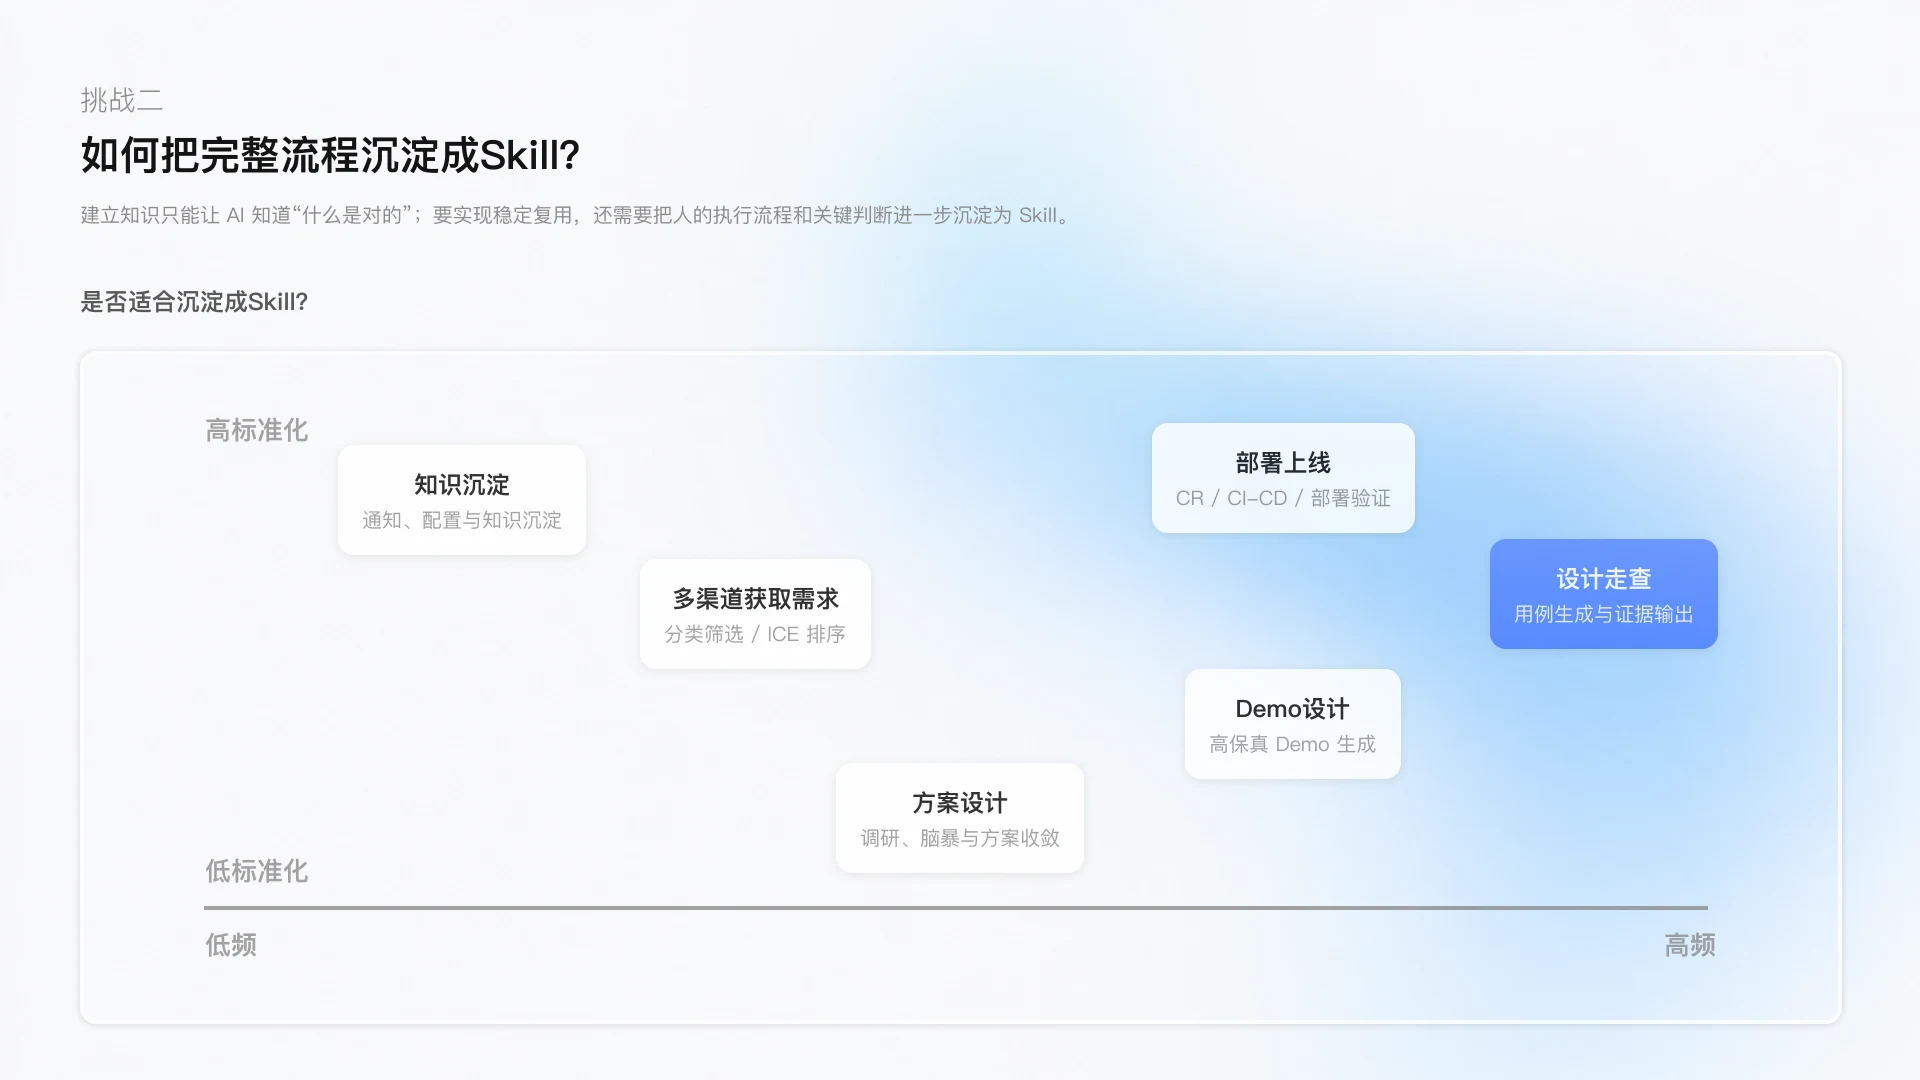
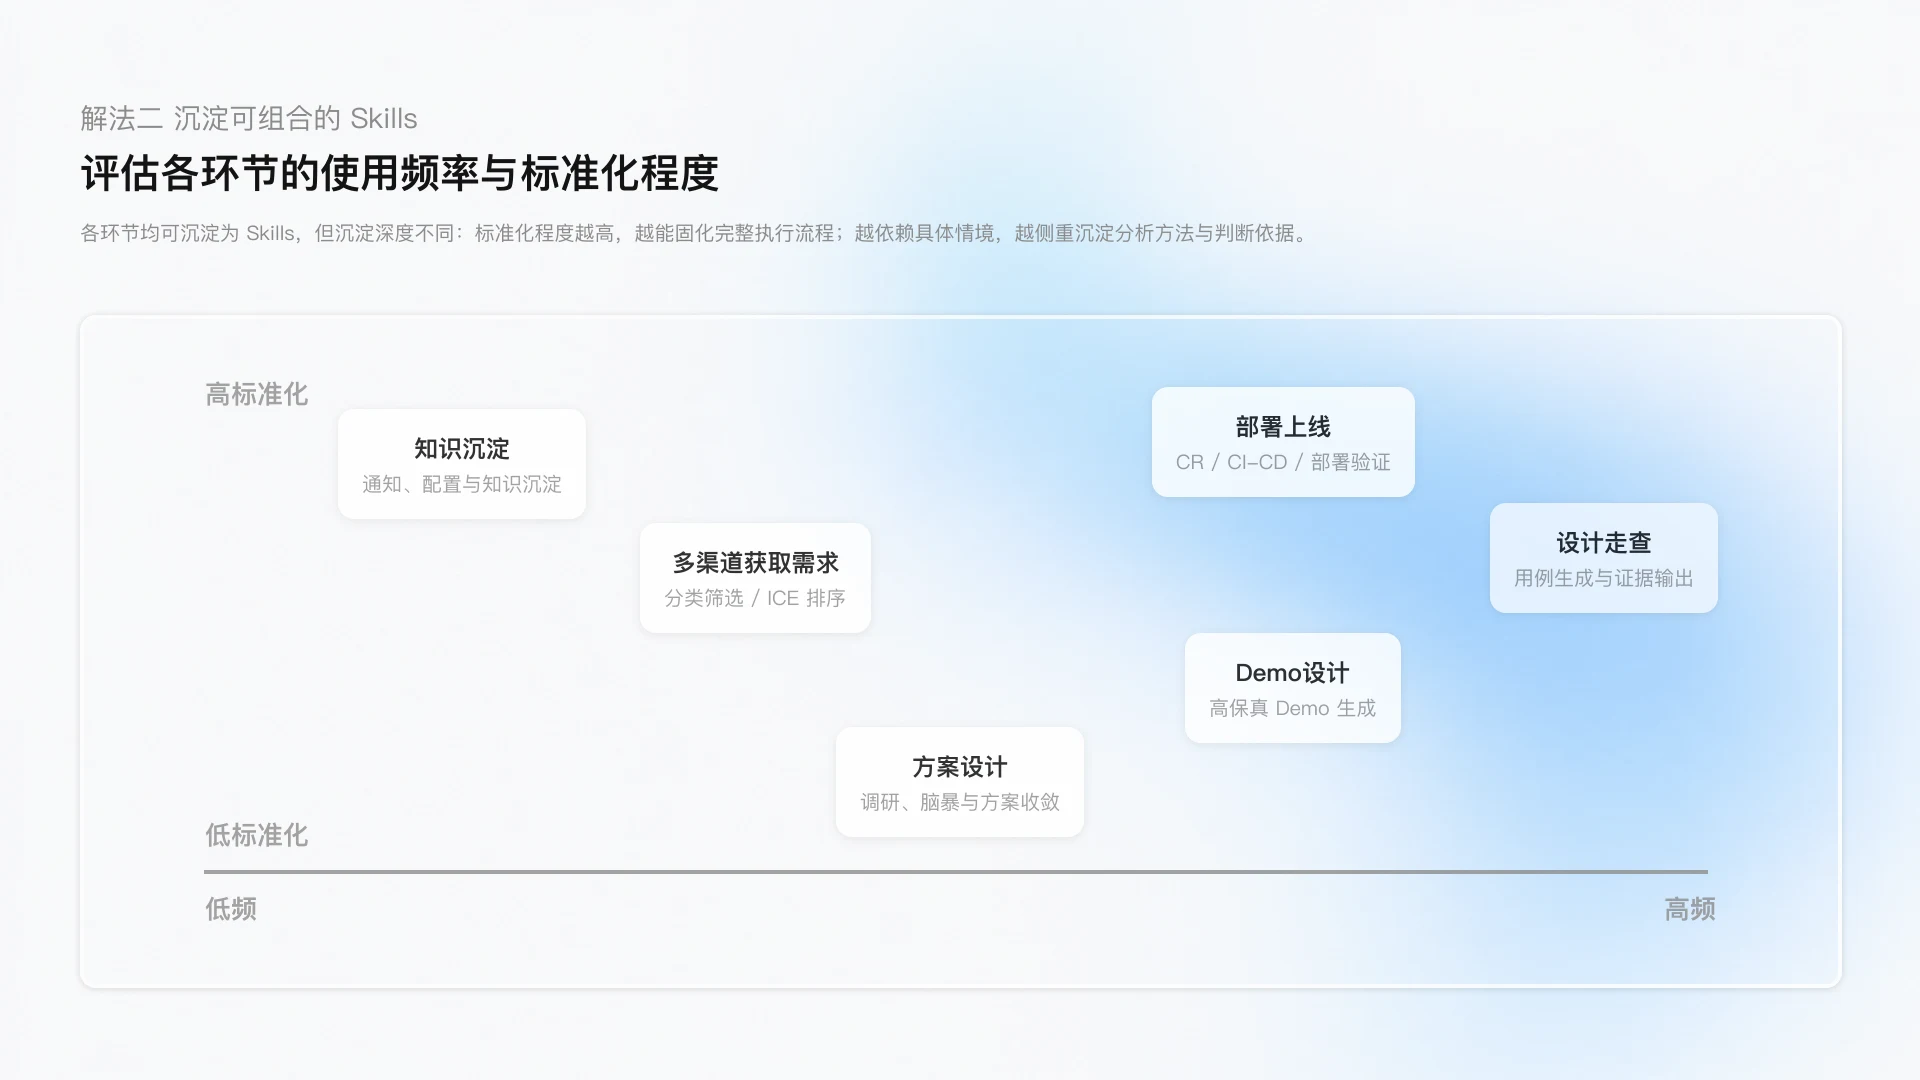
Update Dodo workflow outcome slide

diff --git a/pages/dodo.html b/pages/dodo.html
@@ -17,8 +17,8 @@
       .dodo-cover-demo iframe{display:block;width:100%;height:100%;border:0;border-radius:0;background:#fff;pointer-events:auto}
       .dodo-download-slide{position:relative;aspect-ratio:16/9;overflow:hidden}
       .dodo-download-link{position:absolute;z-index:2;display:block;border-radius:999px;background:transparent;cursor:pointer}
-      #dodo-slide-10 .dodo-download-link{left:86.04%;top:7.4%;width:10.52%;height:5.19%}
-      #dodo-slide-12 .dodo-download-link{left:85.36%;top:7.5%;width:10.42%;height:5%}
+      #dodo-slide-11 .dodo-download-link{left:86.04%;top:7.4%;width:10.52%;height:5.19%}
+      #dodo-slide-13 .dodo-download-link{left:85.36%;top:7.5%;width:10.42%;height:5%}
       .dodo-download-link:focus-visible{outline:3px solid #fff;outline-offset:4px}
       .dodo-process-panel{position:absolute;left:4.22%;top:30.28%;width:53.91%;height:69.72%;z-index:1;display:grid;place-items:center;overflow:hidden;border:0;border-radius:0;background:#151923;box-shadow:none}
       .dodo-process-media{display:block;max-width:100%;max-height:100%;width:auto;height:auto;object-fit:contain}
@@ -42,19 +42,20 @@
           </div>
         </div>
         <img id="dodo-slide-2" data-src="../assets/dodo/pages/page-02.webp?v=20261020-01" alt="Dodo 用户流程与从反馈到代码交付的工作流实践" width="1920" height="1080" loading="lazy" decoding="async" />
-        <img id="dodo-slide-3" data-src="../assets/dodo/pages/page-03.webp?v=20261020-01" alt="从用户反馈到代码交付的工作流阶段与适用需求" width="1920" height="1080" loading="lazy" decoding="async" />
-        <img id="dodo-slide-4" data-src="../assets/dodo/pages/page-03-stable-delivery.webp?v=20261020-01" alt="让工作流稳定交付：补齐产品规范并沉淀可组合的 Skills" width="1920" height="1080" loading="lazy" decoding="async" />
-        <img id="dodo-slide-5" data-src="../assets/dodo/pages/page-04.webp?v=20261020-02" alt="解法一补齐产品规范：需要明确体验原则与交互规范" width="1920" height="1080" loading="lazy" decoding="async" />
-        <img id="dodo-slide-6" data-src="../assets/dodo/pages/page-05.webp" alt="Agent 体验原则" width="1920" height="1080" loading="lazy" decoding="async" />
-        <img id="dodo-slide-7" data-src="../assets/dodo/pages/page-06.webp?v=20260922-1" alt="规范与元素层知识体系基座" width="1920" height="1080" loading="lazy" decoding="async" />
-        <img id="dodo-slide-8" data-src="../assets/dodo/pages/page-07.webp" alt="Agent 体验原则与产品规范应用结果" width="1920" height="1080" loading="lazy" decoding="async" />
-        <img id="dodo-slide-9" data-src="../assets/dodo/pages/page-08.webp?v=20260920-1" alt="如何把一次交付，变成可复制的能力" width="1920" height="1080" loading="lazy" decoding="async" />
-        <div id="dodo-slide-10" class="case-slide-frame dodo-download-slide" aria-label="AI 设计工作流与 Skills">
-          <img data-src="../assets/dodo/pages/page-09.webp?v=20260920-3" alt="AI 设计工作流与 Skills" width="1920" height="1080" loading="lazy" decoding="async" />
+        <img id="dodo-slide-3" data-src="../assets/dodo/pages/page-03.webp?v=20261020-02" alt="从用户反馈到代码交付，让设计师完成小需求" width="1920" height="1080" loading="lazy" decoding="async" />
+        <img id="dodo-slide-4" data-src="../assets/dodo/pages/page-04-outcomes-promotion.webp?v=20261021-02" alt="工作流成果与推广：加快体验迭代，推动团队使用" width="1920" height="1080" loading="lazy" decoding="async" />
+        <img id="dodo-slide-5" data-src="../assets/dodo/pages/page-03-stable-delivery.webp?v=20261020-01" alt="让工作流稳定交付：补齐产品规范并沉淀可组合的 Skills" width="1920" height="1080" loading="lazy" decoding="async" />
+        <img id="dodo-slide-6" data-src="../assets/dodo/pages/page-04.webp?v=20261020-02" alt="解法一补齐产品规范：需要明确体验原则与交互规范" width="1920" height="1080" loading="lazy" decoding="async" />
+        <img id="dodo-slide-7" data-src="../assets/dodo/pages/page-05.webp" alt="Agent 体验原则" width="1920" height="1080" loading="lazy" decoding="async" />
+        <img id="dodo-slide-8" data-src="../assets/dodo/pages/page-06.webp?v=20260922-1" alt="规范与元素层知识体系基座" width="1920" height="1080" loading="lazy" decoding="async" />
+        <img id="dodo-slide-9" data-src="../assets/dodo/pages/page-07.webp" alt="Agent 体验原则与产品规范应用结果" width="1920" height="1080" loading="lazy" decoding="async" />
+        <img id="dodo-slide-10" data-src="../assets/dodo/pages/page-08.webp?v=20261020-01" alt="评估各环节的使用频率与标准化程度，判断 Skills 的沉淀方式" width="1920" height="1080" loading="lazy" decoding="async" />
+        <div id="dodo-slide-11" class="case-slide-frame dodo-download-slide" aria-label="AI 设计工作流与 Skills">
+          <img data-src="../assets/dodo/pages/page-09.webp?v=20261020-01" alt="根据评估结果，明确各环节的 Skill 沉淀内容" width="1920" height="1080" loading="lazy" decoding="async" />
           <a class="dodo-download-link" href="../assets/skills/design-review-skills.zip" download="design-review-skills.zip" aria-label="下载Skill" title="下载Skill"></a>
         </div>
-        <img id="dodo-slide-11" data-src="../assets/dodo/pages/page-10.webp?v=20260914-01" alt="以设计走查为例，按设计师走查的思路编排 Skill" width="1920" height="1080" loading="lazy" decoding="async" />
-        <div id="dodo-slide-12" class="case-slide-frame dodo-download-slide">
+        <img id="dodo-slide-12" data-src="../assets/dodo/pages/page-10.webp?v=20260914-01" alt="以设计走查为例，按设计师走查的思路编排 Skill" width="1920" height="1080" loading="lazy" decoding="async" />
+        <div id="dodo-slide-13" class="case-slide-frame dodo-download-slide">
           <img data-src="../assets/dodo/pages/page-11.webp?v=20260914-01" alt="一次真实走查，从设计稿到可复现问题" width="1920" height="1080" loading="lazy" decoding="async" />
           <div class="dodo-process-panel" aria-label="设计走查流程录屏">
             <video class="dodo-process-media" muted playsinline loop preload="none" poster="../assets/dodo/dodo-review-process-poster.webp" aria-label="设计走查流程录屏">
@@ -63,7 +64,7 @@
           </div>
           <a class="dodo-download-link" href="../assets/skills/design-review-skills.zip" download="design-review-skills.zip" aria-label="下载Skill" title="下载Skill"></a>
         </div>
-        <img id="dodo-slide-13" data-src="../assets/dodo/pages/page-12.webp?v=20260914-01" alt="设计走查 Skill 成果验证与实际使用反馈" width="1920" height="1080" loading="lazy" decoding="async" />
+        <img id="dodo-slide-14" data-src="../assets/dodo/pages/page-12.webp?v=20260914-01" alt="设计走查 Skill 成果验证与实际使用反馈" width="1920" height="1080" loading="lazy" decoding="async" />
       </section>
     </main>
     <script>
